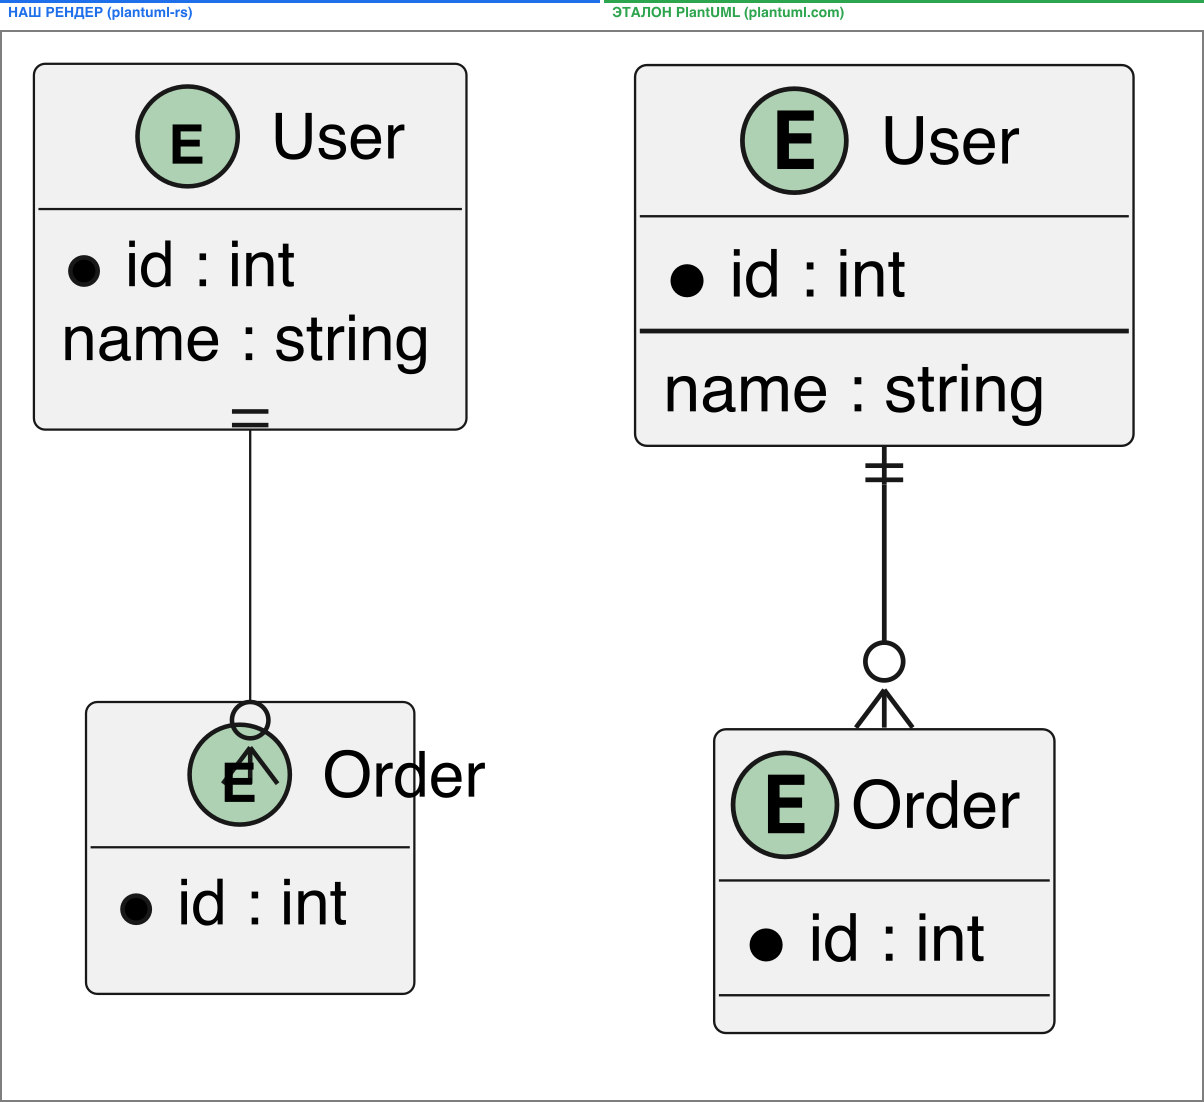
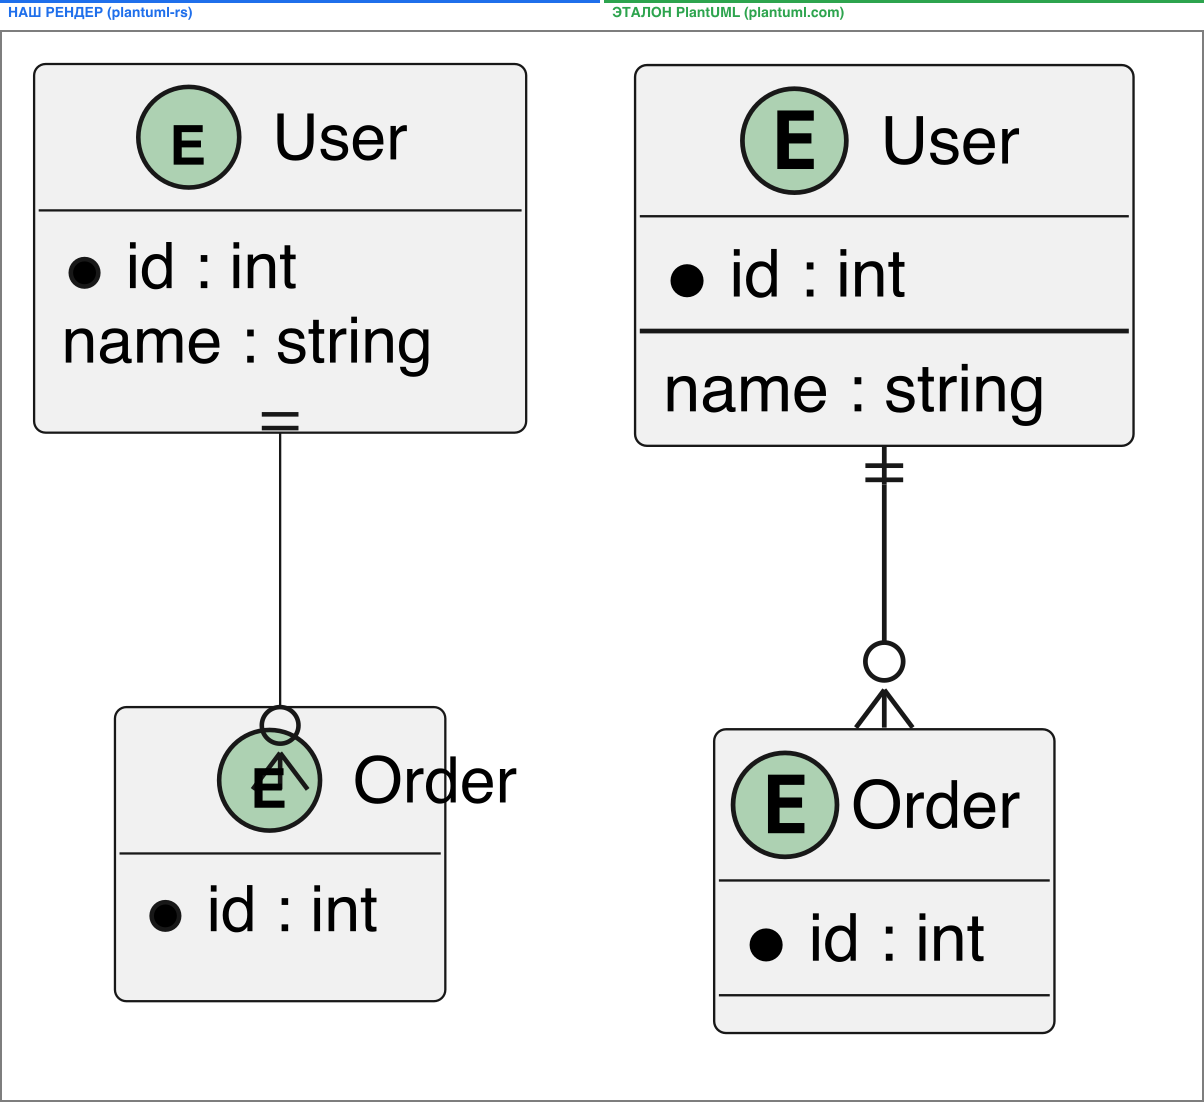
fix(er): ширина атрибута и двойное поле в габарите
Движок мерил атрибут БЕЗ разделителя « : »: ширина считалась для
«namestring» вместо «name : string», поэтому блок «User» выходил 94.89
против эталонных 105.51. Теперь замер идёт ровно по той строке, которая
рисуется, и без лишних +3 — эталон даёт ровно «текст + 12».

Габарит дважды прибавлял поле: calculate_bounds уже возвращает объединение
фигур вместе с левым отступом 7, а сверху добавлялись ещё 7 — холст
выходил 138 вместо 127. Высота er_basic совпала точно (226).

Отдельно проверил таблицу ширин символов по всем эталонам: 144 подписи,
средняя относительная ошибка 0.5 %, худшая 10 % у жирного «[Ошибка]».
То есть остатки в 1–6 px — естественная точность таблицы, а не дефект.

Метрика: 59/11 px (было 297/314 до плана и 55/19 в начале сессии).
Высота улучшилась с 19 до 11.

diff --git a/crates/plantuml-layout/src/er/engine.rs b/crates/plantuml-layout/src/er/engine.rs
@@ -117,7 +117,15 @@ impl ErLayoutEngine {
             .attributes
             .iter()
             .map(|a| {
-                let type_str = a.data_type.as_deref().unwrap_or("");
+                // ВАЖНО: измеряем РОВНО ту строку, которая рисуется.
+                // Здесь терялся разделитель « : », из-за чего «name :
+                // string» мерилось как «namestring» — блок «User» выходил
+                // 94.89 вместо эталонных 105.51.
+                let type_str = a
+                    .data_type
+                    .as_deref()
+                    .map(|t| format!(" : {t}"))
+                    .unwrap_or_default();
                 let stereo_str = a
                     .stereotype
                     .as_deref()
@@ -125,10 +133,12 @@ impl ErLayoutEngine {
                     .unwrap_or_default();
                 // Одна согласованная мера вместо двух разных констант
                 // (9.0 для имени и 7.5 для атрибутов)
+                // Без добавочных 3: эталон даёт ровно «текст + 12»
+                // (105.51 при «name : string» 93.51).
                 self.config.text.width(
                     &format!("{}{}{}", a.name, type_str, stereo_str),
                     self.config.font_size,
-                ) + 3.0
+                )
             })
             .fold(0.0, f64::max);
 
@@ -524,9 +534,9 @@ impl LayoutEngine for ErLayoutEngine {
         };
         result.calculate_bounds();
 
-        // Добавляем padding
-        result.bounds.width += self.config.padding;
-        result.bounds.height += self.config.padding;
+        // Добавочный padding здесь НЕ нужен: `calculate_bounds` уже вернул
+        // объединение фигур, а левый отступ 7 входит в него как `bounds.x`.
+        // Лишние 7 давали холст 138 вместо эталонных 127.
 
         result
     }
